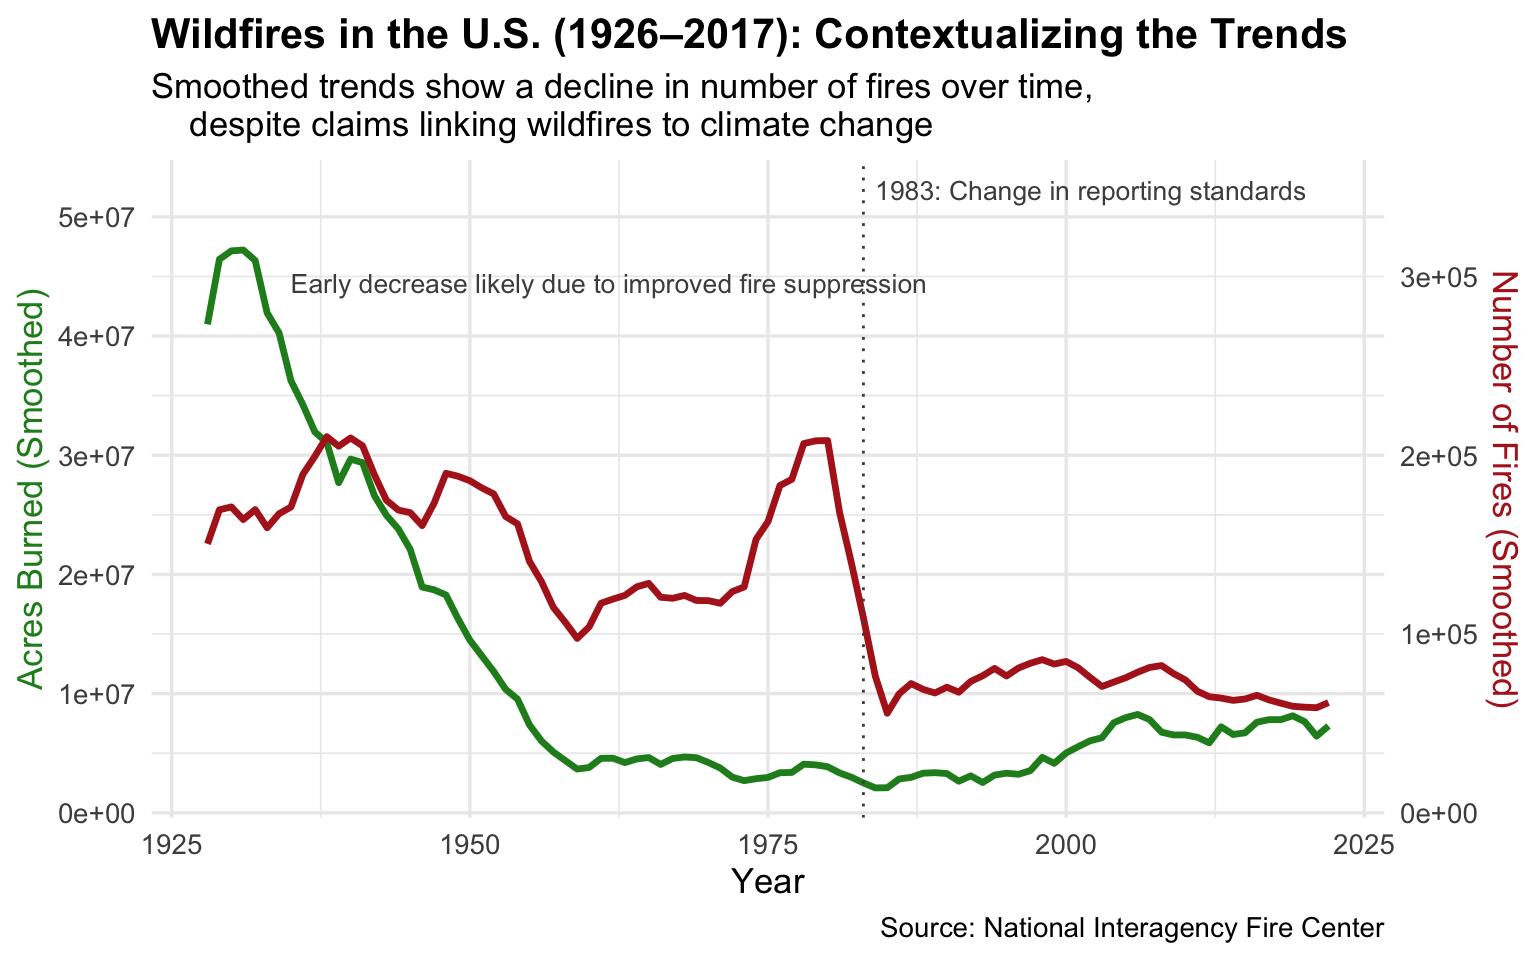
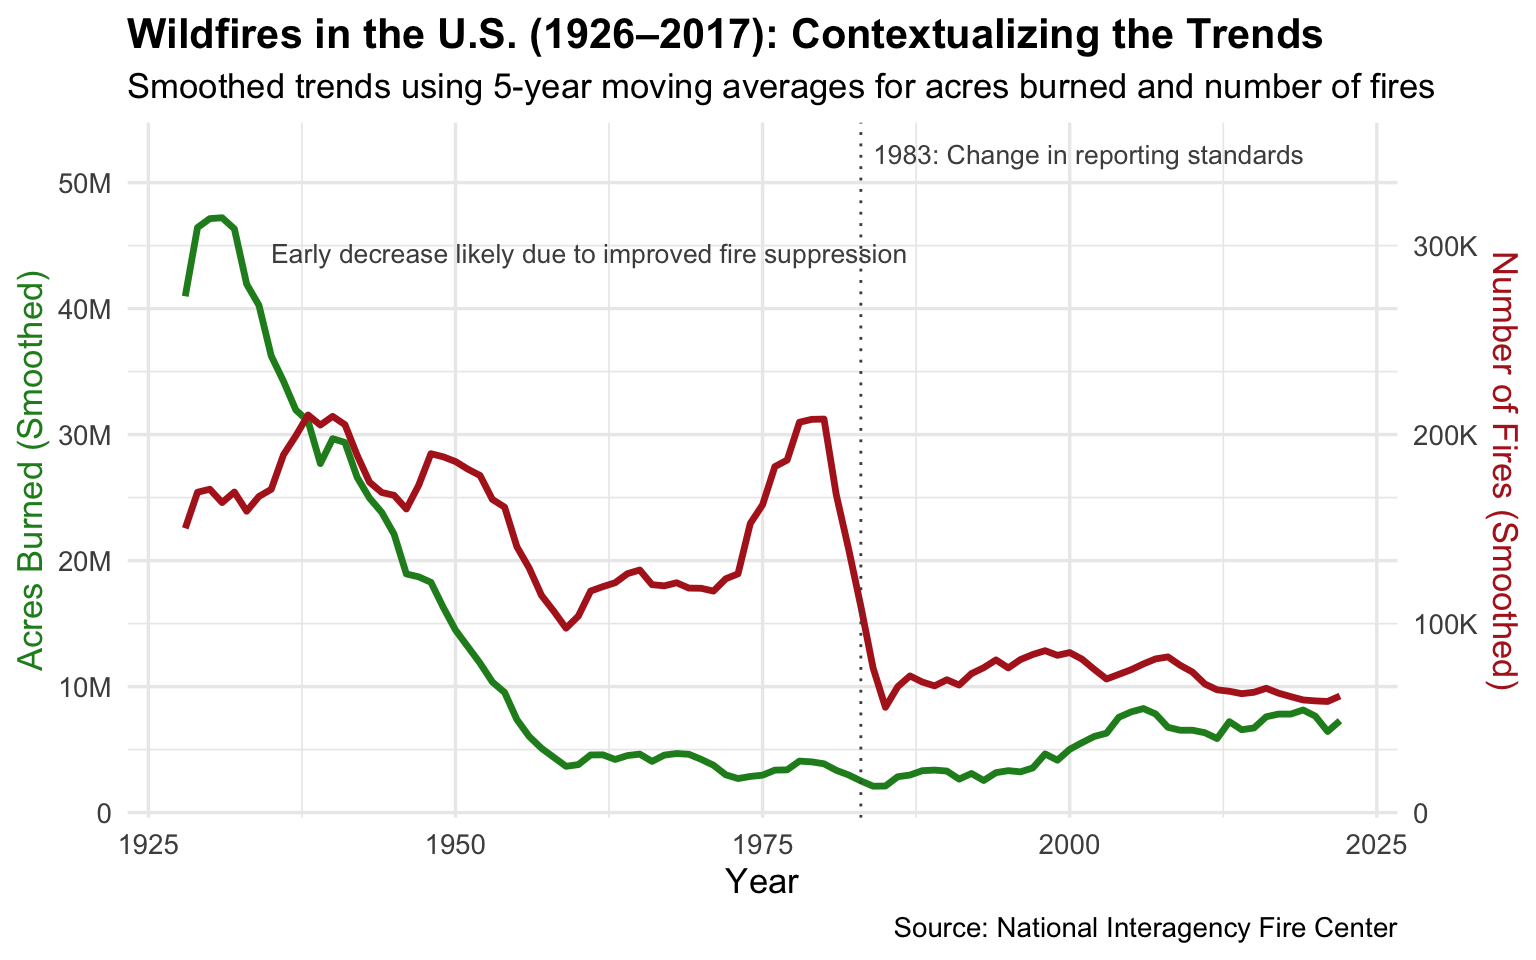
fix: change y axis metrics to human readable instead of scientific notation

diff --git a/Project/project.html b/Project/project.html
@@ -111,7 +111,8 @@ pre > code.sourceCode > span > a:first-child::before { text-decoration: underlin
 <div class="sourceCode cell-code" id="cb1"><pre class="sourceCode r code-with-copy"><code class="sourceCode r"><span id="cb1-1"><a href="#cb1-1" aria-hidden="true" tabindex="-1"></a><span class="fu">library</span>(tidyverse)</span>
 <span id="cb1-2"><a href="#cb1-2" aria-hidden="true" tabindex="-1"></a><span class="fu">library</span>(dplyr)</span>
 <span id="cb1-3"><a href="#cb1-3" aria-hidden="true" tabindex="-1"></a><span class="fu">library</span>(knitr)</span>
-<span id="cb1-4"><a href="#cb1-4" aria-hidden="true" tabindex="-1"></a><span class="fu">library</span>(zoo)</span></code><button title="Copy to Clipboard" class="code-copy-button"><i class="bi"></i></button></pre></div>
+<span id="cb1-4"><a href="#cb1-4" aria-hidden="true" tabindex="-1"></a><span class="fu">library</span>(zoo)</span>
+<span id="cb1-5"><a href="#cb1-5" aria-hidden="true" tabindex="-1"></a><span class="fu">library</span>(scales)</span></code><button title="Copy to Clipboard" class="code-copy-button"><i class="bi"></i></button></pre></div>
 </div>
 <div class="cell">
 <div class="sourceCode cell-code" id="cb2"><pre class="sourceCode r code-with-copy"><code class="sourceCode r"><span id="cb2-1"><a href="#cb2-1" aria-hidden="true" tabindex="-1"></a><span class="fu">include_graphics</span>(<span class="st">"images/previous_visualization.png"</span>)</span></code><button title="Copy to Clipboard" class="code-copy-button"><i class="bi"></i></button></pre></div>
@@ -274,19 +275,25 @@ Figure&nbsp;1: Help me on this
 <p>The following code adds labels to the y-axis, including a secondary axis for the number of fires, and includes titles and captions to provide context for the data. The primary y-axis represents acres burned (smoothed), while the secondary y-axis represents the number of fires (smoothed) scaled down by a factor of 150 to fit within the same plot.</p>
 <div class="cell">
 <div class="sourceCode cell-code" id="cb11"><pre class="sourceCode r code-with-copy"><code class="sourceCode r"><span id="cb11-1"><a href="#cb11-1" aria-hidden="true" tabindex="-1"></a>labelled_plot <span class="ot">&lt;-</span> annotated_plot <span class="sc">+</span></span>
-<span id="cb11-2"><a href="#cb11-2" aria-hidden="true" tabindex="-1"></a>  <span class="fu">scale_y_continuous</span>(<span class="at">name =</span> <span class="st">"Acres Burned (Smoothed)"</span>,</span>
-<span id="cb11-3"><a href="#cb11-3" aria-hidden="true" tabindex="-1"></a>                     <span class="at">sec.axis =</span> <span class="fu">sec_axis</span>(</span>
-<span id="cb11-4"><a href="#cb11-4" aria-hidden="true" tabindex="-1"></a>                       <span class="sc">~</span> . <span class="sc">/</span> <span class="dv">150</span>, <span class="at">name =</span> <span class="st">"Number of Fires (Smoothed)"</span></span>
-<span id="cb11-5"><a href="#cb11-5" aria-hidden="true" tabindex="-1"></a>                     )) <span class="sc">+</span></span>
-<span id="cb11-6"><a href="#cb11-6" aria-hidden="true" tabindex="-1"></a>  <span class="fu">labs</span>(</span>
-<span id="cb11-7"><a href="#cb11-7" aria-hidden="true" tabindex="-1"></a>    <span class="at">title =</span> <span class="st">"Wildfires in the U.S. (1926–2017): Contextualizing the Trends"</span>,</span>
-<span id="cb11-8"><a href="#cb11-8" aria-hidden="true" tabindex="-1"></a>    <span class="at">subtitle =</span> <span class="st">"Smoothed trends show a decline in number of fires over time, </span></span>
-<span id="cb11-9"><a href="#cb11-9" aria-hidden="true" tabindex="-1"></a><span class="st">    despite claims linking wildfires to climate change"</span>,</span>
-<span id="cb11-10"><a href="#cb11-10" aria-hidden="true" tabindex="-1"></a>    <span class="at">x =</span> <span class="st">"Year"</span>,</span>
-<span id="cb11-11"><a href="#cb11-11" aria-hidden="true" tabindex="-1"></a>    <span class="at">caption =</span> <span class="st">"Source: National Interagency Fire Center"</span></span>
-<span id="cb11-12"><a href="#cb11-12" aria-hidden="true" tabindex="-1"></a>  )</span>
-<span id="cb11-13"><a href="#cb11-13" aria-hidden="true" tabindex="-1"></a></span>
-<span id="cb11-14"><a href="#cb11-14" aria-hidden="true" tabindex="-1"></a>labelled_plot</span></code><button title="Copy to Clipboard" class="code-copy-button"><i class="bi"></i></button></pre></div>
+<span id="cb11-2"><a href="#cb11-2" aria-hidden="true" tabindex="-1"></a>  <span class="fu">scale_y_continuous</span>(</span>
+<span id="cb11-3"><a href="#cb11-3" aria-hidden="true" tabindex="-1"></a>    <span class="at">labels =</span> <span class="fu">label_number</span>(<span class="at">scale_cut =</span> <span class="fu">cut_short_scale</span>()),  <span class="co"># Left y-axis</span></span>
+<span id="cb11-4"><a href="#cb11-4" aria-hidden="true" tabindex="-1"></a>    <span class="at">sec.axis =</span> <span class="fu">sec_axis</span>(<span class="sc">~</span> . <span class="sc">/</span> <span class="dv">150</span>,</span>
+<span id="cb11-5"><a href="#cb11-5" aria-hidden="true" tabindex="-1"></a>                        <span class="at">name =</span> <span class="st">"Number of Fires (Smoothed)"</span>,</span>
+<span id="cb11-6"><a href="#cb11-6" aria-hidden="true" tabindex="-1"></a>                        <span class="at">labels =</span> <span class="fu">label_number</span>(<span class="at">scale_cut =</span> <span class="fu">cut_short_scale</span>()))</span>
+<span id="cb11-7"><a href="#cb11-7" aria-hidden="true" tabindex="-1"></a>  ) <span class="sc">+</span></span>
+<span id="cb11-8"><a href="#cb11-8" aria-hidden="true" tabindex="-1"></a>  <span class="fu">labs</span>(</span>
+<span id="cb11-9"><a href="#cb11-9" aria-hidden="true" tabindex="-1"></a>    <span class="at">title =</span> <span class="st">"Wildfires in the U.S. (1926–2017): Contextualizing the Trends"</span>,</span>
+<span id="cb11-10"><a href="#cb11-10" aria-hidden="true" tabindex="-1"></a>    <span class="at">subtitle =</span> <span class="fu">paste</span>(</span>
+<span id="cb11-11"><a href="#cb11-11" aria-hidden="true" tabindex="-1"></a>      <span class="st">"Smoothed trends using 5-year moving averages for acres burned"</span>,</span>
+<span id="cb11-12"><a href="#cb11-12" aria-hidden="true" tabindex="-1"></a>      <span class="st">"and number of fires"</span></span>
+<span id="cb11-13"><a href="#cb11-13" aria-hidden="true" tabindex="-1"></a>    ),</span>
+<span id="cb11-14"><a href="#cb11-14" aria-hidden="true" tabindex="-1"></a>    <span class="at">y =</span> <span class="st">"Acres Burned (Smoothed)"</span>,</span>
+<span id="cb11-15"><a href="#cb11-15" aria-hidden="true" tabindex="-1"></a>    <span class="at">x =</span> <span class="st">"Year"</span>,</span>
+<span id="cb11-16"><a href="#cb11-16" aria-hidden="true" tabindex="-1"></a>    <span class="at">color =</span> <span class="st">"Legend"</span>,</span>
+<span id="cb11-17"><a href="#cb11-17" aria-hidden="true" tabindex="-1"></a>    <span class="at">caption =</span> <span class="st">"Source: National Interagency Fire Center"</span></span>
+<span id="cb11-18"><a href="#cb11-18" aria-hidden="true" tabindex="-1"></a>  )</span>
+<span id="cb11-19"><a href="#cb11-19" aria-hidden="true" tabindex="-1"></a></span>
+<span id="cb11-20"><a href="#cb11-20" aria-hidden="true" tabindex="-1"></a>labelled_plot</span></code><button title="Copy to Clipboard" class="code-copy-button"><i class="bi"></i></button></pre></div>
 <div class="cell-output-display">
 <div class="quarto-figure quarto-figure-center">
 <figure class="figure">
